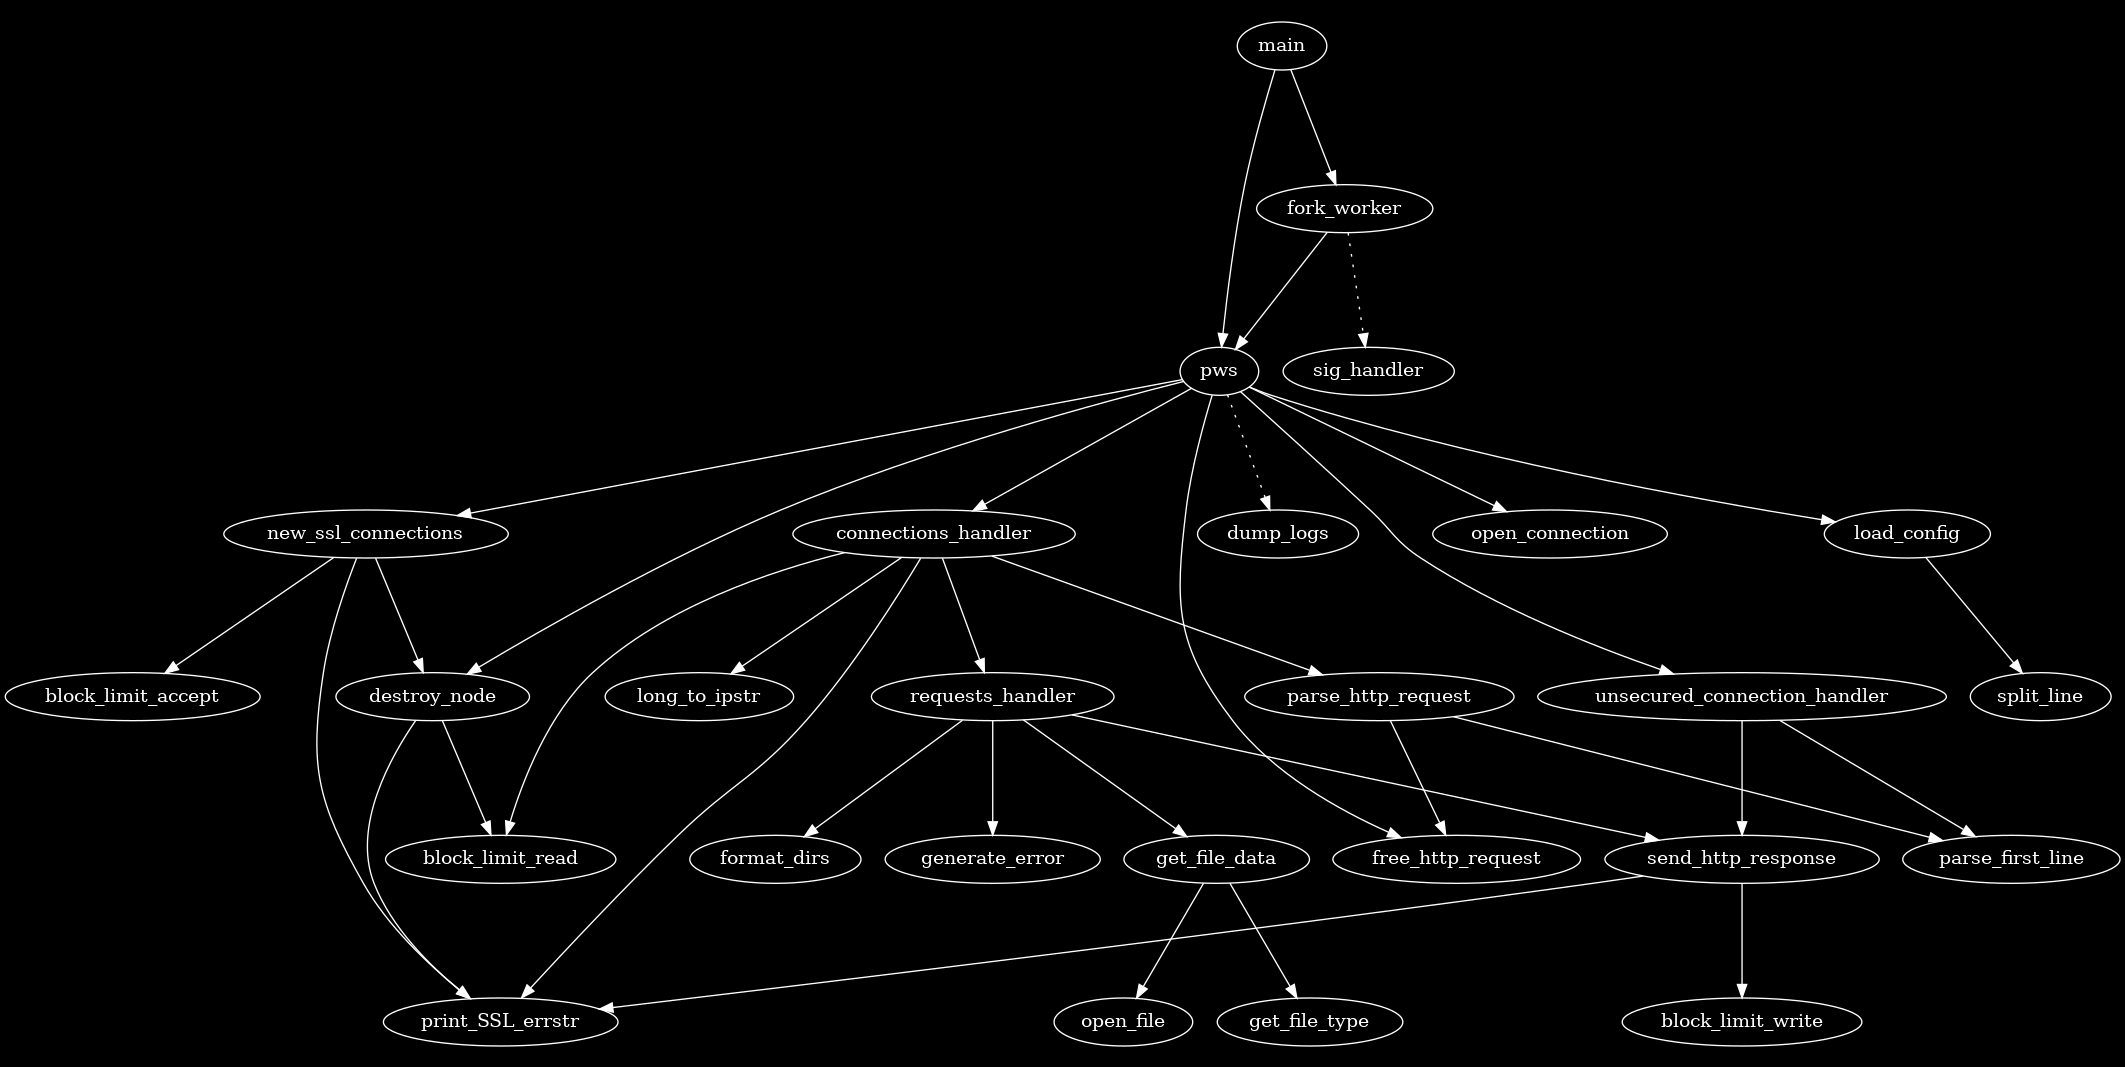
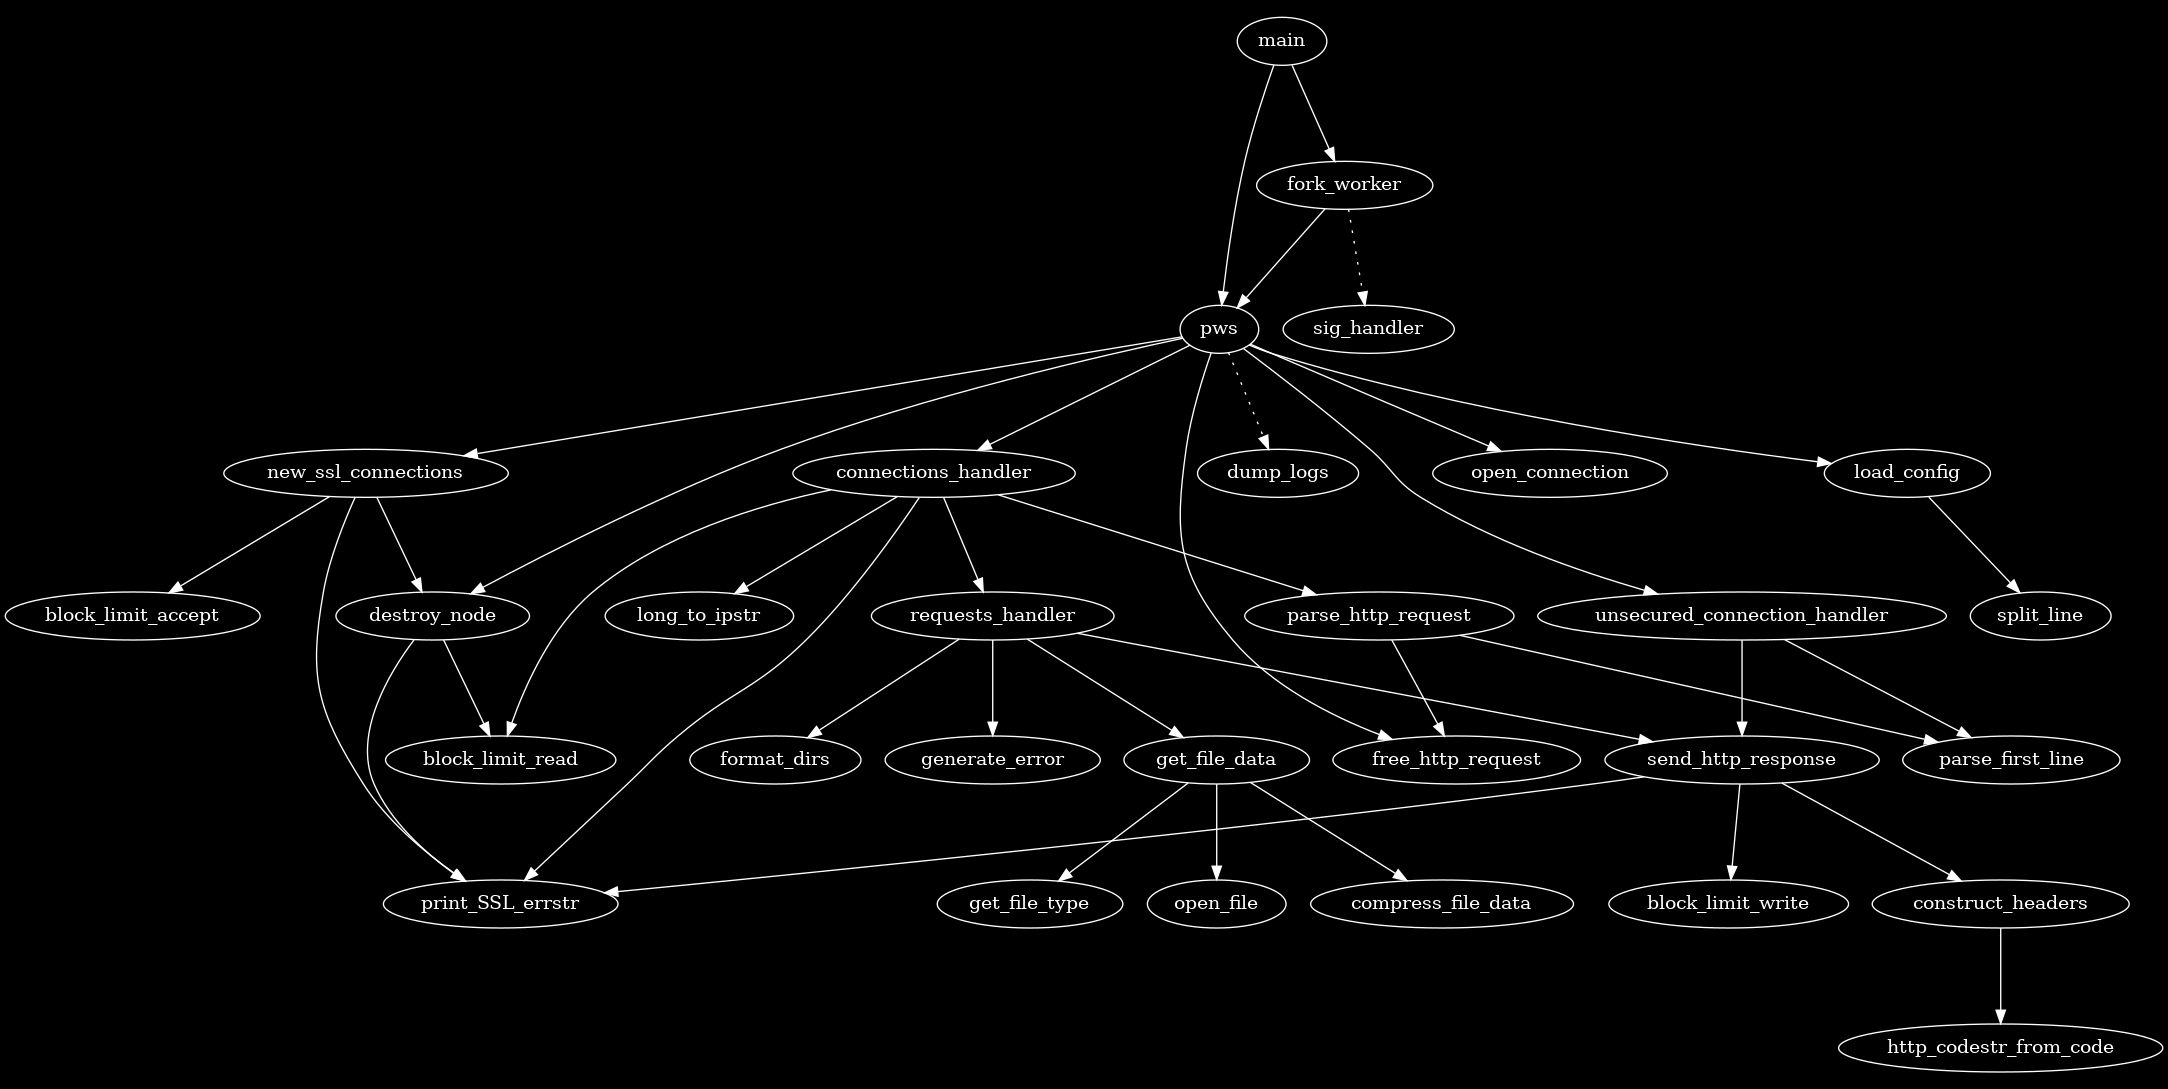
pws 1.1.3!!
- pws now supports sending data with deflate compression

- invalid paths now return a 403 instead of a 404

- several memory leaks fixed

diff --git a/src/prot.h b/src/prot.h
@@ -8,7 +8,7 @@
 
 #include "tweakables.h"
 
-#define VERSION_NUMBER "PWS 1.0.0-beta"
+#define VERSION_NUMBER "PWS 1.1.3-beta"
 
 #define HTTP_PORT 80
 #define HTTPS_PORT 443

diff --git a/README.md b/README.md
@@ -29,6 +29,20 @@ When running PWS as a daemon, stdout and stderr will be rerouted to pws.log and 
 ### optional fields (can be left blank):
 - C_FULLCHAIN_FILE
 
+
+## dependencies
+pws depends on libcrypto, OpenSSL and zlib. These are most likely already on your system, but in the case they aren't, you can install them with:
+```bash
+sudo apt install openssl zlib1g
+```
+If you are compiling pws from source you will instead need to install the development libraries:
+```bash
+sudo apt install libssl-dev zlib1g-dev
+```
+They will most likely be called the same or similar things on other package managers.
+
+I have not tested which versions are compatible, but I would guess that any recent (last 5 years) release will probably do. On my development machine I am running zlib 1.2.13 and OpenSSL 3.0.17
+
 ## build instructions
 to compile pws, simply clone the repo and in the root directory run:
 ```
